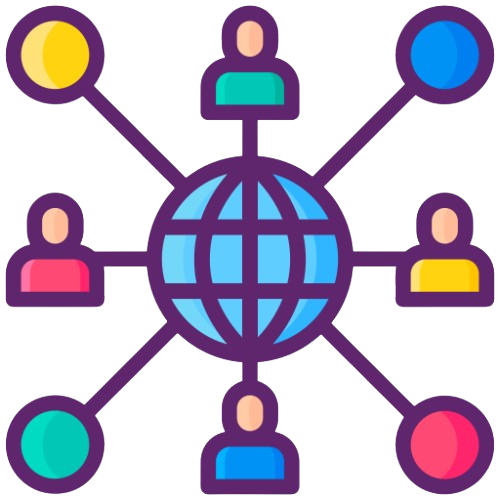
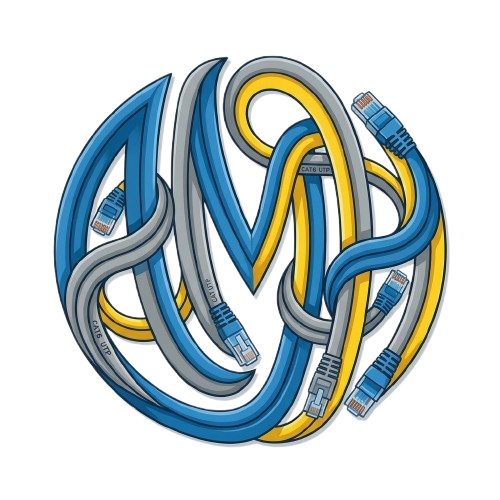
Add files via upload

diff --git a/style.css b/style.css
@@ -1219,8 +1219,8 @@ body.light-mode .section-divider {
 
 /* --- Standalone Rotating Image Icon --- */
 .brand-custom-img {
-  width: 34px; /* လိုအပ်သလို အရွယ်အစား ပြောင်းနိုင်သည် */
-  height: 34px;
+  width: 55px; /* လိုအပ်သလို အရွယ်အစား ပြောင်းနိုင်သည် */
+  height: 55px;
   object-fit: contain;
   display: block;
   flex-shrink: 0;

diff --git a/index.html b/index.html
@@ -24,7 +24,7 @@
   <a class="brand brand-script" href="#main">
   <!-- Borderless Network Community Image Icon -->
   <img src="network-icon.png" alt="Home Network Icon" class="brand-custom-img">
-  <span>Hello Friend!</span>
+  <span>AMH</span>
 </a>
       <nav aria-label="Main navigation" class="links">
         <a href="#expertise">Expertise</a>
